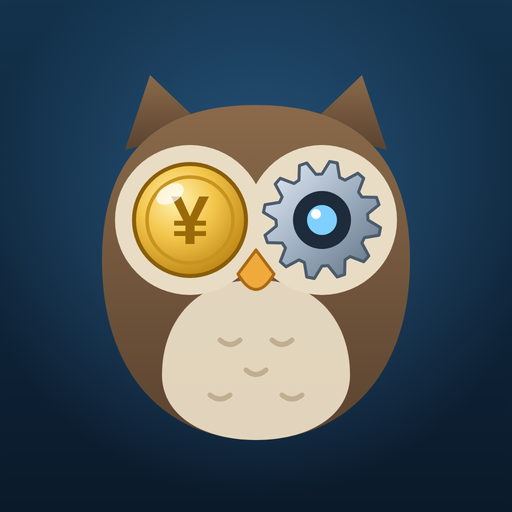
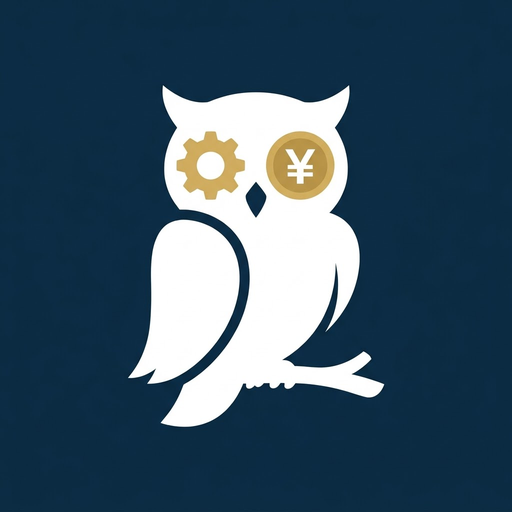
フクリ：アイコンを紺×金のフクロウに（ダーク版つき）
Claude-Session: https://claude.ai/code/session_018AqJEQQujXQvyPookm7eHX

diff --git a/fukuri/index.html b/fukuri/index.html
@@ -11,9 +11,9 @@
 <meta name="apple-mobile-web-app-status-bar-style" content="black-translucent">
 <meta name="apple-mobile-web-app-title" content="フクリ">
 <meta name="theme-color" content="#0b0b0c">
-<link rel="apple-touch-icon" href="apple-touch-icon.png?v=1">
-<link rel="apple-touch-icon" media="(prefers-color-scheme: dark)" href="apple-touch-icon-dark.png?v=1">
-<link rel="icon" href="icon-192.png?v=1">
+<link rel="apple-touch-icon" href="apple-touch-icon.png?v=2">
+<link rel="apple-touch-icon" media="(prefers-color-scheme: dark)" href="apple-touch-icon-dark.png?v=2">
+<link rel="icon" href="icon-192.png?v=2">
 <link rel="manifest" href="manifest.webmanifest?v=1">
 <style>
 :root{
@@ -223,7 +223,7 @@ nav button svg{width:26px;height:26px}
   <button data-p="set"><svg viewBox="0 0 24 24"><circle cx="12" cy="12" r="3"/><path d="M12 2.5v3M12 18.5v3M4.6 4.6l2.1 2.1M17.3 17.3l2.1 2.1M2.5 12h3M18.5 12h3M4.6 19.4l2.1-2.1M17.3 6.7l2.1-2.1"/></svg>設定</button>
 </nav>
 <script>
-const VERSION='9';
+const VERSION='10';
 const CLIENT_ID='187861904258-0eilchk073j1hbginl1hncskf7jpp4ja.apps.googleusercontent.com';  // GoogleログインのクライアントID（公開してよい値）
 const VAPID='BFPiiQbgaxGzyfVZaA--hO4tmo7iamPgNVKypX8MHbwrcy3IF3d3544WBQX1cVLJmfDnfnRuZaPrTR9KNwHJlyc';
 const API='https://script.google.com/macros/s/AKfycbwTnqvwT5kAsd0AKqWztPr5yxcw4FKEM4ISuuMwrtFsUGmYTjdeAzXfhypG1TIj_B7d/exec';
